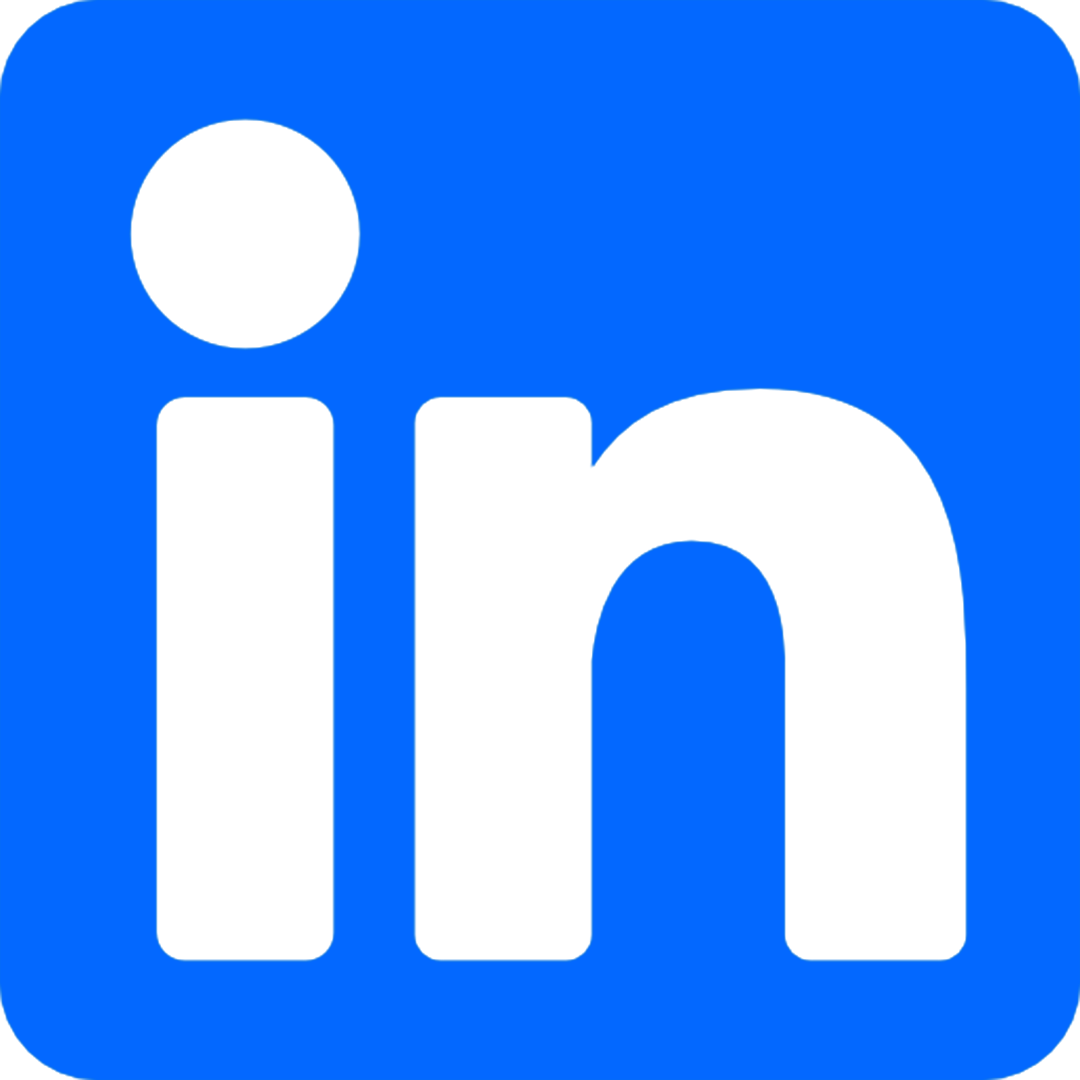
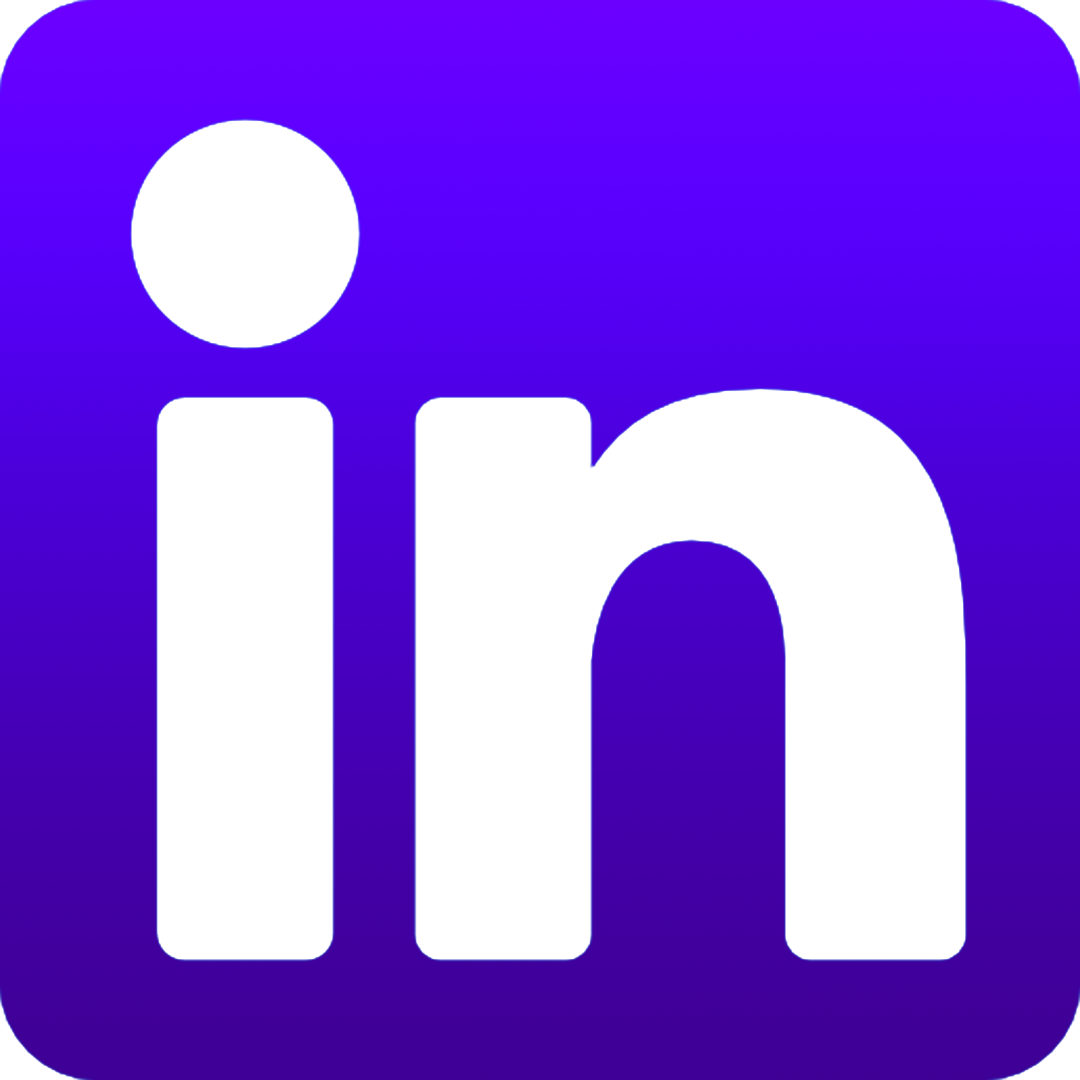
background+behance

diff --git a/style/style.css b/style/style.css
@@ -2,9 +2,9 @@
 
 :root{
     --font1: 'Comfortaa', cursive;
-    --color1: #590195;
+    --color1: #6c00ff;
     --color2: #FFF126;
-    --color3: #8E0BE6;
+    --color3: #3e0095;
 }
 
 body{
@@ -19,11 +19,8 @@ body{
 .header-container{
     width: 100%;
     height: 90vh;
-    background-color: var(--color1);
-    background-image: url('./images/foto.png');
-    background-repeat: no-repeat;
-    background-position: center;
-    background-size: contain;
+    
+    background-image: linear-gradient(to bottom, #6c00ff, #3e0095);
     display: flex;
     flex-direction: column;
     justify-content: center;
@@ -70,8 +67,8 @@ h1, h2{
      width: 100px;
      height: 100px;
      position: fixed;
-     background-color: var(--color1);
-     right: 0;
+
+     background-image: linear-gradient(to top, #6c00ff, #3e0095);     right: 0;
      top: 0;
      display: flex;
      justify-content: center;
@@ -237,16 +234,19 @@ h1, h2{
     transition: 0.5s ease-in-out;
 }
 #p1{
-    background-image: url('/images/AD12-logo02-black.png');
+    background-image: url('/images/Logo.png') !important;
 }
 #p2{
-    background-image: url('/images/WH-black.png');
+    background-image: url('/images/WH-black.png') !important;
 }
 #p3{
-    background-image: url('/images/WH-Music-logo.png');
+    background-image: url('/images/WH-Music-logo.png') !important;
 }
 #p4{
-    background-image: url('/images/galeria.png');
+    background-image: url('/images/galeria.png') !important;
+}
+#p5{
+    background-image: url('/images/behance.png') !important;
 }
 
 .lkn {
@@ -299,7 +299,7 @@ h1, h2{
 
 /*Contato*/
 .contact{
-    background-color:var(--color3);
+    background-color:#000;
     width: 100%;
     height: 230px;
     text-align: center;
@@ -337,7 +337,7 @@ footer{
     margin-top: -7.5vh;
     width: 100%;
     height: 100px;
-    background-color: var(--color1);
+    background-image: linear-gradient(to top, #6c00ff, #3e0095);
     display: flex;
     align-items: center;
     justify-content: center;
@@ -383,14 +383,14 @@ footer{
         flex-direction: column;
         align-items: center;
         justify-content: center;
-        height: 990px;
+        height: 800px;
     }
     .contact h1{
-        font-size: 50px;
+        font-size: 9vw;
     }
     .contact-images{
-        width: 150px;
-        height: 150px;
+        width: 90px;
+        height: 90px;
         margin-top: 20px;
         margin-bottom: 10px;
     }
@@ -401,7 +401,7 @@ footer{
         margin-bottom: 10px;
     }
     .contact-images-gm{
-        width: 150px;
+        width: 90px;
         margin-top: 20px;
         margin-bottom: 10px;
     }

diff --git a/index.html b/index.html
@@ -6,7 +6,7 @@
     <meta name="viewport" content="width=device-width, initial-scale=1.0">
     <title>Anthony Daniel</title>
     <link rel="stylesheet" href="./style/style.css">
-    <link rel="shortcut icon" href="images/AD12-logo02-PNG.png" type="image/x-icon">
+    <link rel="shortcut icon" href="images/Logo-png.png" type="image/x-icon">
 </head>
 <body>
     <header class="header-container">
@@ -37,7 +37,14 @@
             <a href="https://www.github.com/anthonyd12" target="_blank">Github</a>
         </div>
     </header>
+
     <main class="container" id="projetos">
+        <div class="card-container">
+            <div class="card" id="p5"></div>
+                <div class="card-text">
+                   Portifólio de Desings no Behance. Artes, Social Media, Cartões de Visita, Banners, etc.
+                </div><strong><a href="https://www.behance.net/anthonydaniel6" target="_blank" class="lkn">CONFIRA</a></strong>
+        </div>
         <div class="card-container">
             <div class="card" id="p1"></div>
                 <div class="card-text">
@@ -62,6 +69,7 @@
                     Galeria de imagens feita com CSS grid 
                 </div><strong><a href="Pages/Galeria/Galeria.html" target="_blank" class="lkn">CONFIRA</a></strong>
         </div>
+        
         <div class="contact" id="contato">
             <h1>Contato</h1>
             <a href="https://www.linkedin.com/in/anthony-daniel-651932186/" target="_blank"><img src="./images/contato_LK.png" alt="" class="contact-images"></a><span class="sub-title"><a href="https://www.linkedin.com/in/anthony-daniel-651932186/" target="_blank">🔗 Linkedin</a></span>
